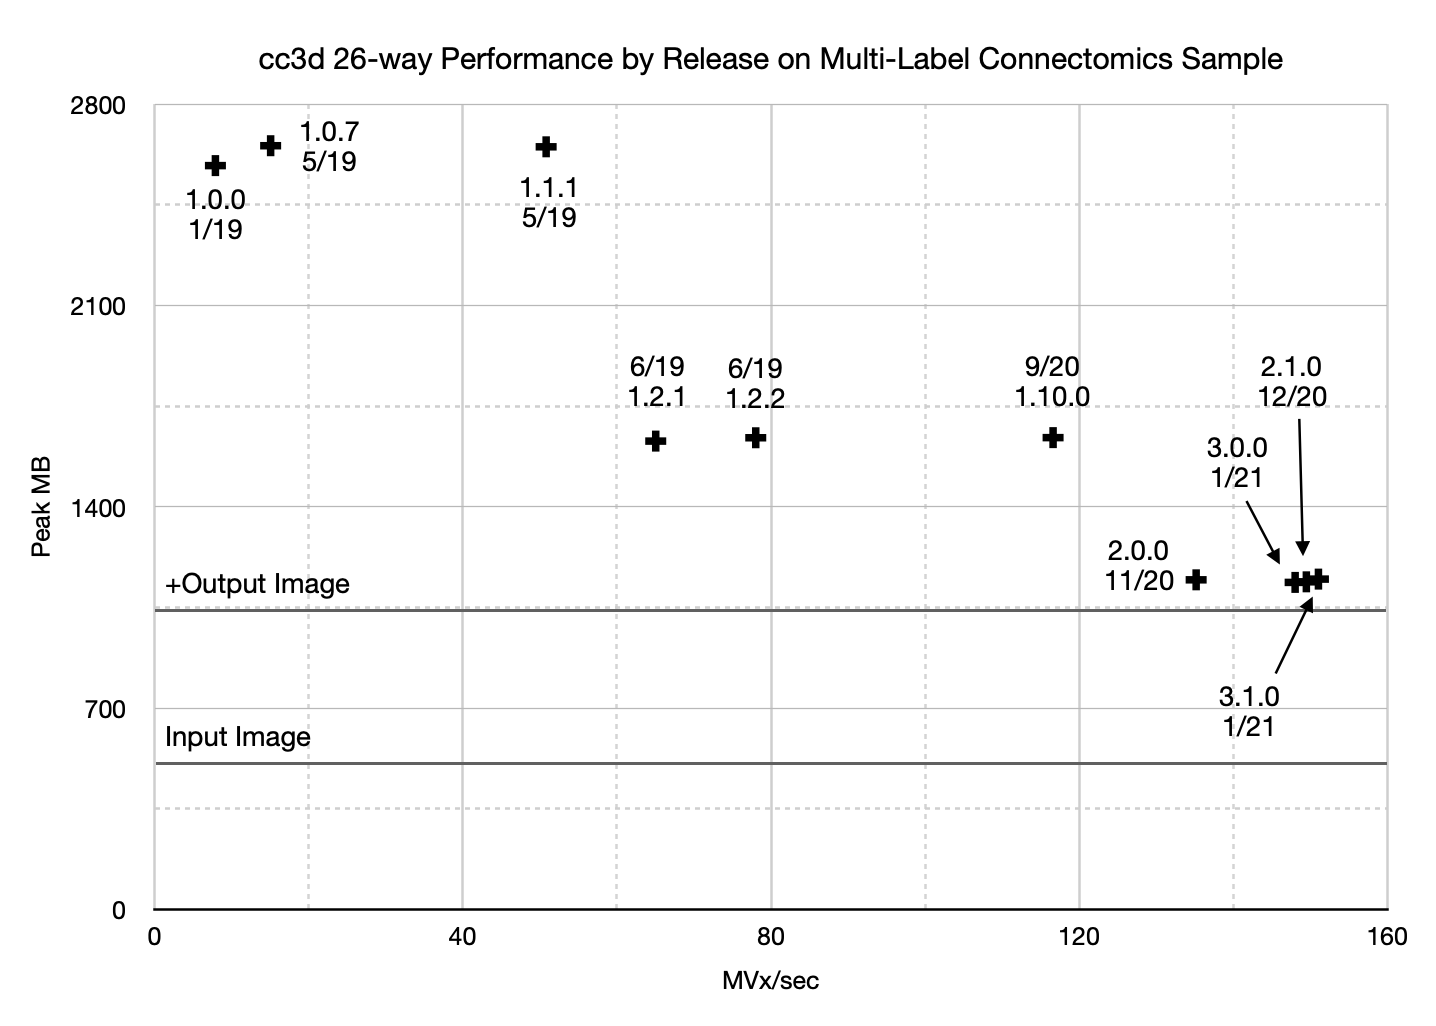
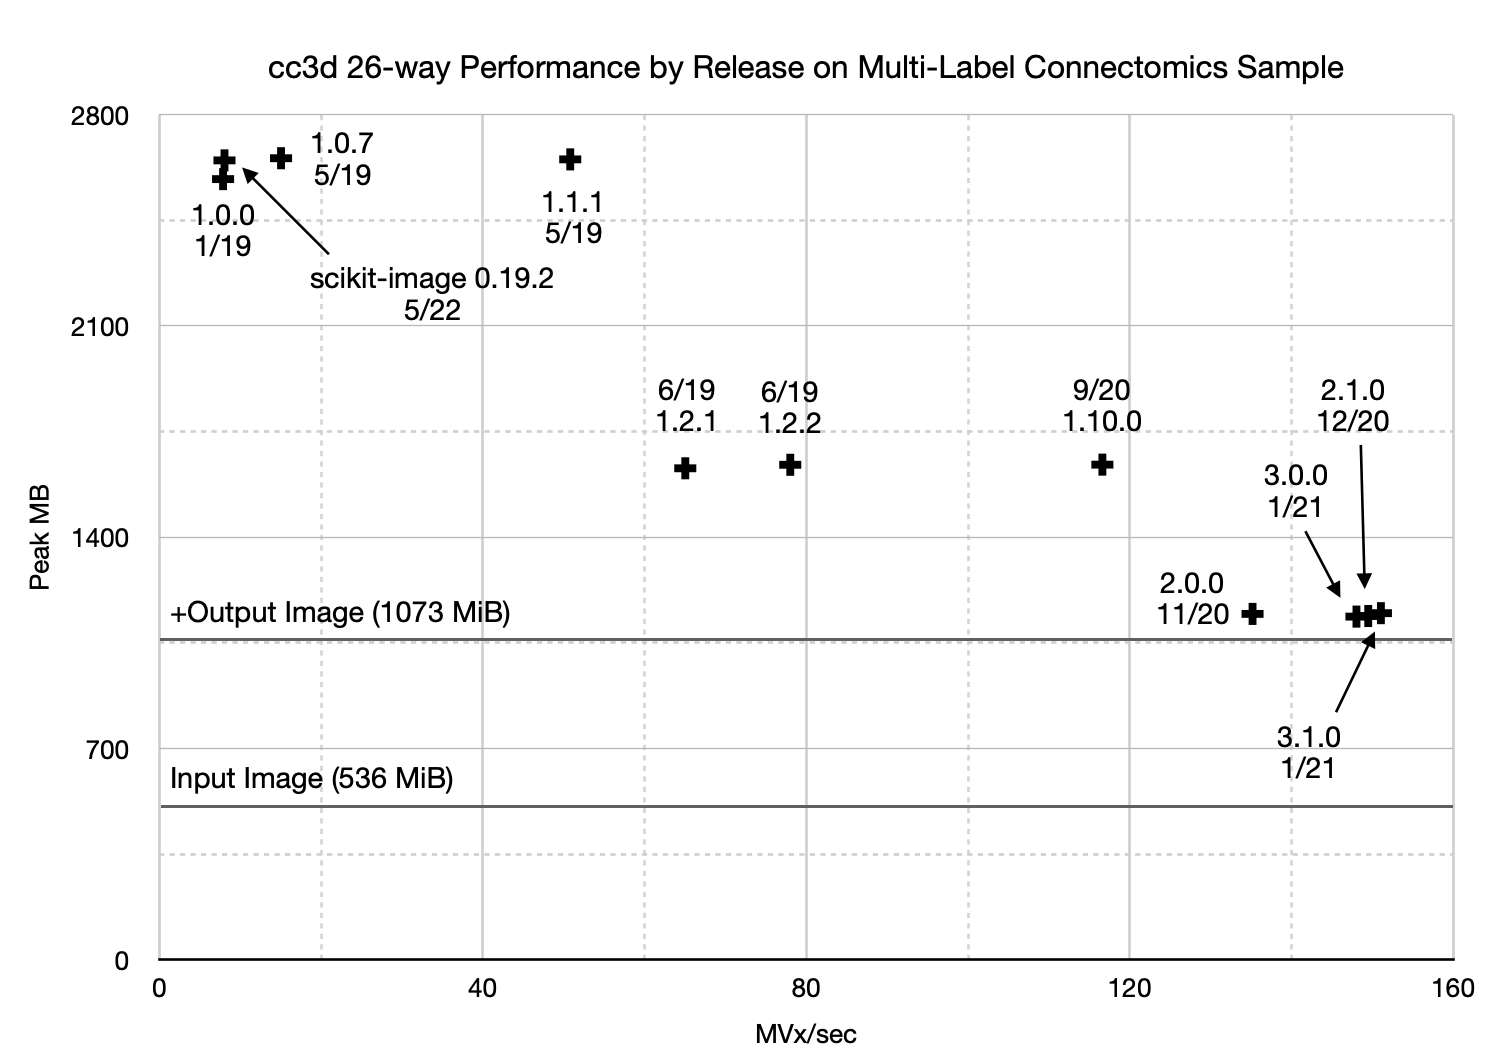
docs: update and fix historical charts. add scikit-image comparison

diff --git a/benchmarks/README.md b/benchmarks/README.md
@@ -187,7 +187,7 @@ We can see how this bears out. In black, SciPy runs at a brisk and reasonable cl
 
 # Historical Performance
 
-cc3d has been steadily improving over time. To celebrate the release of 2.0.0, we show plots of peak memory usage and megavoxels per second vs version. Better scores in these charts trend down and right, indicating lower peak memory pressure and faster execution.
+cc3d has been steadily improving over time. To celebrate the release of 2.0.0, we show plots of peak memory usage and megavoxels per second vs version. Better scores in these charts trend down and right, indicating lower peak memory pressure and faster execution. In May 2022, I discovered that scikit-image also is multi-label capable and so added comparisons to these charts.
 
 <p style="font-style: italics;" align="center">
 <img height=512 src="https://raw.githubusercontent.com/seung-lab/connected-components-3d/master/benchmarks/cc3d_26-way_connectomics_over_time.png" alt="Fig. 6: 26-way cc3d peak memory usage and speed in selected releases against a 512x512x512 connectomics dataset." /><br>
@@ -200,7 +200,12 @@ Fig. 7: 26-way cc3d and scipy peak memory usage and speed in selected releases a
 </p>   
 
 <p style="font-style: italics;" align="center">
-<img height=512 src="https://raw.githubusercontent.com/seung-lab/connected-components-3d/master/benchmarks/cc3d_6-way_connectomics_over_time.png" alt="Fig. 8: 6-way cc3d peak memory usage and speed in selected releases against a 512x512x512 connectomics dataset." /><br>
-Fig. 8: 6-way cc3d peak memory usage and speed in selected releases against a 512x512x512 connectomics dataset.
+<img height=512 src="https://raw.githubusercontent.com/seung-lab/connected-components-3d/master/benchmarks/cc3d_26-way_natural_binary_image.png" alt="Fig. 8: 26-way cc3d peak memory usage and speed against a natural binary image from a 512x512x512 connectomics dataset." /><br>
+Fig. 8: 26-way cc3d peak memory usage and speed against a natural binary image from a 512x512x512 connectomics dataset.
 </p>   
+
+<p style="font-style: italics;" align="center">
+<img height=512 src="https://raw.githubusercontent.com/seung-lab/connected-components-3d/master/benchmarks/cc3d_6-way_connectomics_over_time.png" alt="Fig. 9: 6-way cc3d peak memory usage and speed in selected releases against a 512x512x512 connectomics dataset." /><br>
+Fig. 9: 6-way cc3d peak memory usage and speed in selected releases against a 512x512x512 connectomics dataset.
+</p>
 
